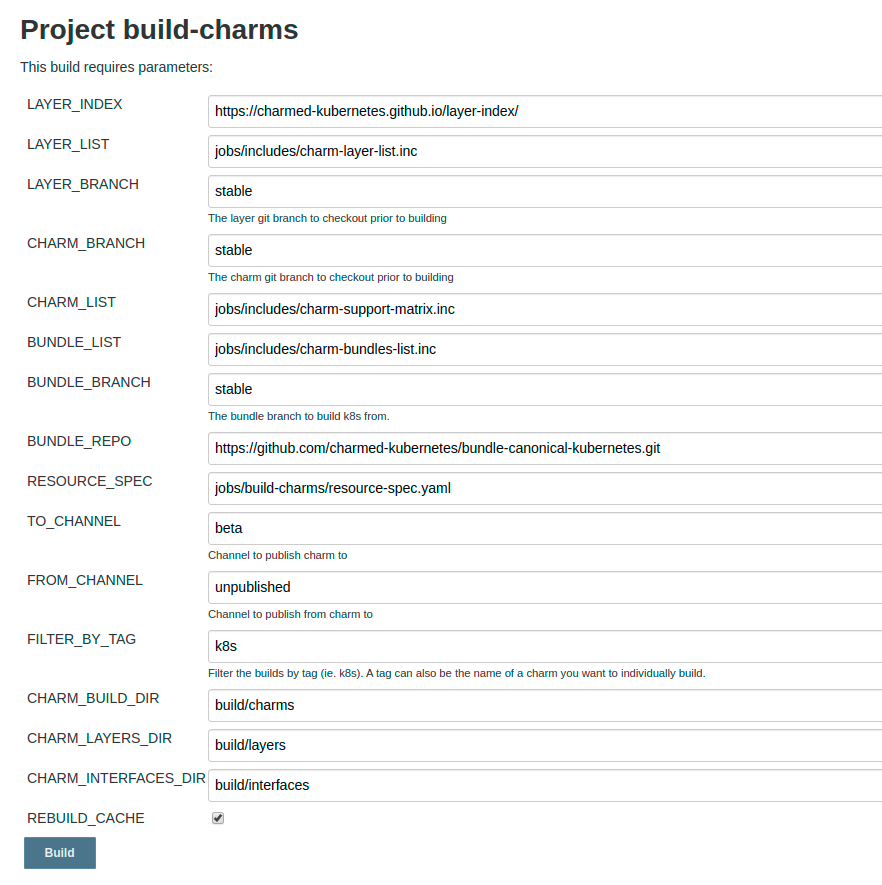
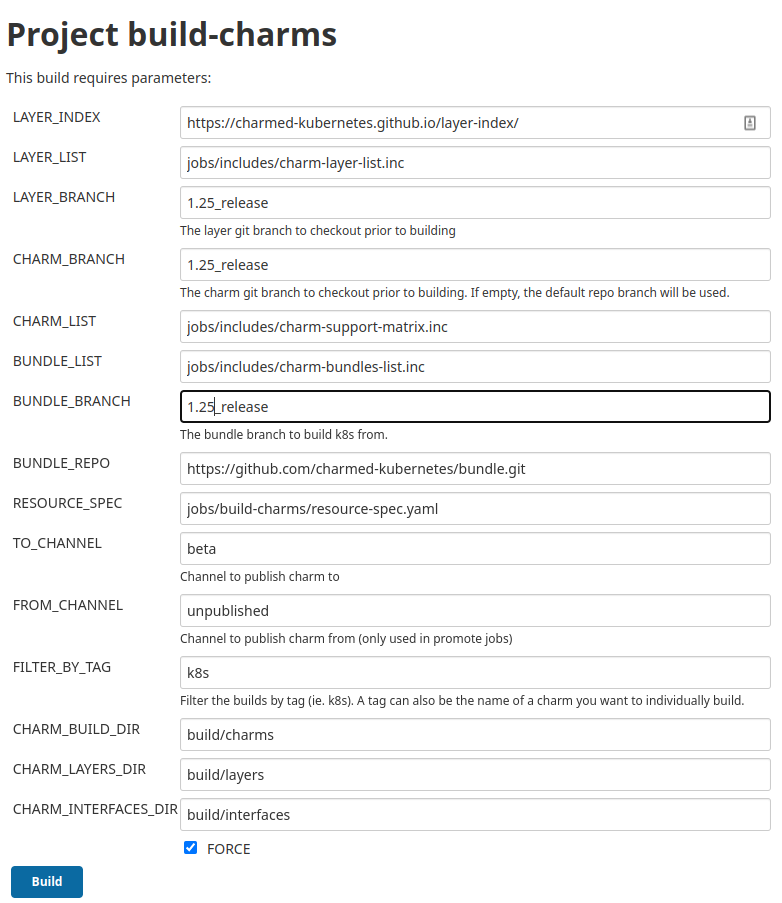
Alter charm release docs to build from release_x.xx branches

diff --git a/jobs/sync-upstream/sync.py b/jobs/sync-upstream/sync.py
@@ -54,23 +54,15 @@ def cli():
 @click.option(
     "--ancillary-list",
     required=True,
-    help="Path to additionall repos that need to be rebased.",
+    help="Path to additional repos that need to be rebased.",
 )
+@click.option("--track", required=True, help="Kubernetes track number: ex) 1.25")
 @click.option(
     "--filter-by-tag", required=False, help="only build for tags", multiple=True
 )
 @click.option("--dry-run", is_flag=True)
 def cut_stable_release(layer_list, charm_list, ancillary_list, filter_by_tag, dry_run):
-    return _cut_stable_release(
-        layer_list, charm_list, ancillary_list, filter_by_tag, dry_run
-    )
-
-
-def _cut_stable_release(layer_list, charm_list, ancillary_list, filter_by_tag, dry_run):
-    """This will merge each layers master onto the stable branches.
-
-    PLEASE NOTE: This step should come after each stable branch has been tagged
-    and references a current stable bundle revision.
+    """This will merge each layers' main onto the release_x.xx branches.
 
     layer_list: YAML spec containing git repos and their upstream/downstream properties
     charm_list: YAML spec containing git repos and their upstream/downstream properties
@@ -97,8 +89,9 @@ def _cut_stable_release(layer_list, charm_list, ancillary_list, filter_by_tag, d
                 downstream, auth=auth
             )
 
+            new_branch = f"release_{track}"
             log.info(
-                f"Releasing :: {layer_name:^35} :: from: {default_branch} to: stable"
+                f"Releasing :: {layer_name:^35} :: from: {default_branch} to: {new_branch}"
             )
             downstream = f"https://{':'.join(auth)}@github.com/{downstream}"
             identifier = str(uuid.uuid4())
@@ -111,18 +104,24 @@ def _cut_stable_release(layer_list, charm_list, ancillary_list, filter_by_tag, d
                 .strip()
             )
             git_rev_stable = (
-                git("rev-parse", "origin/stable", _cwd=identifier)
+                git("rev-parse", f"origin/{new_branch}", _cwd=identifier)
                 .stdout.decode()
                 .strip()
             )
             if git_rev_default == git_rev_stable:
-                log.info(f"Skipping  :: {layer_name:^35} :: {default_branch} == stable")
+                log.info(
+                    f"Skipping  :: {layer_name:^35} :: {default_branch} == {new_branch}"
+                )
                 continue
-            log.info(f"Commits   :: {layer_name:^35} :: {default_branch} != stable")
+            log.info(
+                f"Commits   :: {layer_name:^35} :: {default_branch} != {new_branch}"
+            )
             log.info(f"  {default_branch:10}= {git_rev_default:32}")
-            log.info(f"  {'stable':10}= {git_rev_stable:32}")
+            log.info(f"  {new_branch:10}= {git_rev_stable:32}")
             for line in git(
-                "rev-list", f"origin/stable..origin/{default_branch}", _cwd=identifier
+                "rev-list",
+                f"origin/{new_branch}..origin/{default_branch}",
+                _cwd=identifier,
             ):
                 for line in git.show(
                     "--format=%h %an '%s' %cr",
@@ -135,10 +134,10 @@ def _cut_stable_release(layer_list, charm_list, ancillary_list, filter_by_tag, d
                 git.config("user.email", "cdkbot@juju.solutions", _cwd=identifier)
                 git.config("user.name", "cdkbot", _cwd=identifier)
                 git.config("--global", "push.default", "simple")
-                git.checkout("-f", "stable", _cwd=identifier)
+                git.checkout("-f", new_branch, _cwd=identifier)
                 git.reset(default_branch, _cwd=identifier)
                 for line in git.push(
-                    "origin", "stable", "-f", _cwd=identifier, _iter=True
+                    "origin", new_branch, "-f", _cwd=identifier, _iter=True
                 ):
                     log.info(line)
 

diff --git a/docs/releases/stable/index.md b/docs/releases/stable/index.md
@@ -53,7 +53,7 @@ https://github.com/charmed-kubernetes/jenkins/pull/761
 
 It may feel early, but part of releasing the next stable version requires
 preparing for the release that will follow. This requires opening tracks and
-building relevant snaps that will be used in the new 'edge' channel.
+building relevant snaps and charms that will be used in the new 'edge' channel.
 
 For example, we requested 1.24 tracks while preparing for the 1.23 release:
 
@@ -65,26 +65,53 @@ snaps as well as cdk-addons):
 - https://github.com/charmed-kubernetes/jenkins/pull/765/files
 - https://github.com/charmed-kubernetes/jenkins/commit/b0ce1fb0053908043ce25f10cca40be6531c3156
 
+Charm tracks can be created by contacting [~snapstore](https://chat.canonical.com/canonical/channels/snapstore) and asking for new tracks to be opened for every neccessary [charm](https://charmhub.io/charm) and [bundle](https://charmhub.io/bundle) owned by `Canonical Kubernetes` on [charmhub.io](https://charmhub.io)
+
 ## Preparing the release
 
 ### Tag existing stable branches with the current stable bundle
+#### :warning: **Deprecated Step**
 
-For all charm repos that make up CK, tag the existing stable branches with
-the most recently released stable `cs:charmed-kubernetes` bundle revision.
+Starting with release 1.24, each repo has a unique branch for each 
+Charm release. This step is no longer necessary. Below is the original
+text.
 
-**Job**: https://jenkins.canonical.com/k8s/job/sync-stable-tag-bundle-rev/
+> For all charm repos that make up CK, tag the existing stable branches with
+> the most recently released stable `cs:charmed-kubernetes` bundle revision.
+>
+> **Job**: https://jenkins.canonical.com/k8s/job/sync-stable-tag-bundle-rev/
 
-### Reset stable with master git branches
+### Submit PR to bump K8S Track Map
 
-Once all repositories are tagged, we need to reset stable branches with
-master. This will be our snapshot from which we test, fix, and subsequently
-promote to the new stable release.
+Add the next release to the track map enumerations. To use the newly created tracks, 
+include the next release to the track map.
+
+```python
+...
+    "1.25": ["1.25/beta", "1.25/edge"],
+}
+```
+
+Example PR:
+ - https://github.com/charmed-kubernetes/jenkins/pull/974
+
+This will allow and charm-builds targetting `edge` or `beta` channels to flow to the
+`1.25` tracks while any charm-builds targetting `candidate` or `stable` will flow to
+`1.24` tracks.
+
+:warning: Nightly charm and bundle builds will target `latest/edge` and this `{channel}/edge`
+
+### Reset release_x.xx from `default` git branches
+
+Once all repositories are tagged, we need to create release branches from
+`main`. This will be our snapshot from which we test, fix, and subsequently
+promote to the new release.
 
 **Job**: https://jenkins.canonical.com/k8s/job/cut-stable-release/
 
-### Submit PR's to bundle and charms to pin snap channel on the stable branches
+### Submit PR's to bundle and charms to pin snap channel on the release branches
 
-We need to make sure that the bundle fragments and kubernetes-worker/master/e2e
+We need to make sure that the bundle fragments and kubernetes-worker/control-plane/e2e
 are set to `<k8sver>/stable`. This should be done on each of the relevant git
 `stable` branches. For example, for 1.23 GA:
 
@@ -99,16 +126,16 @@ are set to `<k8sver>/stable`. This should be done on each of the relevant git
 ### Bump snap channel to next minor release
 
 Once the rebase has occurred we need to bump the same charms and bundle
-fragments in the `master` git branches to the next k8s minor version,
+fragments in the `main` git branches to the next k8s minor version,
 e.g. `1.24/edge`. You don't have to do this right away; in fact, you
 should wait until you actually have snaps in the `$next/edge` tracks
 before making this change.
 
-### Build new CK Charms from stable git branches
+### Build new CK Charms from release git branches
 
 **Job**: https://jenkins.canonical.com/k8s/job/build-charms/
 
-Pull down all layers and checkout their stable branches. From there build
+Pull down all layers and checkout their release branches. From there build
 each charm against those local branches. After the charms are built they need to be
 promoted to the **beta** channel in the charmstore.
 
@@ -160,10 +187,10 @@ any changes as a result of their testing.
 
 ## Performing the release
 
-### Promote charms and bundles from **beta** to **stable**
+### Promote charms from **beta** to **stable**
 
 This job takes a tag, from_channel, and to_channel. The tag defaults to `k8s` so
-it will only promote the necessary charms that make up charmed-kuberneetes (the
+it will only promote the necessary charms that make up charmed-kubernetes (the
 others are kubeflow related).
 
 **Job**: https://jenkins.canonical.com/k8s/job/promote-charms/
@@ -174,9 +201,28 @@ others are kubeflow related).
 
 **Job**: https://jenkins.canonical.com/k8s/job/promote-bundles/
 
-#### Promote bundle Options
 
-![promote bundle options](promote-bundles.png)
+### Submit PR to bump K8S Track Map
+
+Add candidate and stable branches to the track map
+
+```diff
+-     "1.25": ["1.25/beta", "1.25/edge"],
++     "1.25": ["1.25/stable", "1.25/candidate", "1.25/beta", "1.25/edge"],
+}
+```
+
+This will allow and charm-builds targetting all channels to flow to the
+`1.25` tracks.
+
+### Build bundles to **stable**
+
+Bundles cannot be promoted because when built they reference specific charm channels
+Therefore, it's required to build bundles which reference the stable charm channels. 
+
+#### Build bundle Options
+
+![build bundle options](build-bundle-options.png)
 
 ### Promote snaps from <stable track>/stable to latest/<risks>
 
